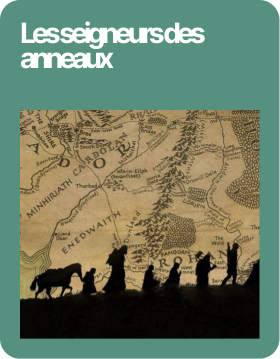
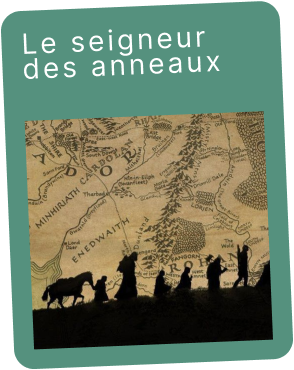
change book to cummunity section and delete shadow border

diff --git a/src/components/CommunitySection.js b/src/components/CommunitySection.js
@@ -114,7 +114,7 @@ const CommunitySection = () => {
       </div>
 
       <div className="relative z-10 flex justify-center mt-12 flex-wrap">
-        {['/Book4.png', '/Book2.png', '/Book3.png', '/Book4.png', '/Book1.png'].map((src, index) => (
+        {['/Book5.png', '/Book2.png', '/Book3.png', '/Book4.png', '/Book1.png'].map((src, index) => (
           <div
             key={index}
             className={`relative z-${10 - Math.abs(index - 2)} transform ${
@@ -122,7 +122,7 @@ const CommunitySection = () => {
             } -mr-6 sm:-mr-16 ${index === 0 || index === 4 ? 'hidden sm:block' : ''}`} 
             ref={(el) => (booksRef.current[index] = el)}
           >
-            <img src={src} alt={`Book Cover ${index + 1}`} className="h-40 w-20 sm:h-80 sm:w-60 shadow-lg" />
+            <img src={src} alt={`Book Cover ${index + 1}`} className="h-40 w-20 sm:h-80 sm:w-60" />
           </div>
         ))}
       </div>
